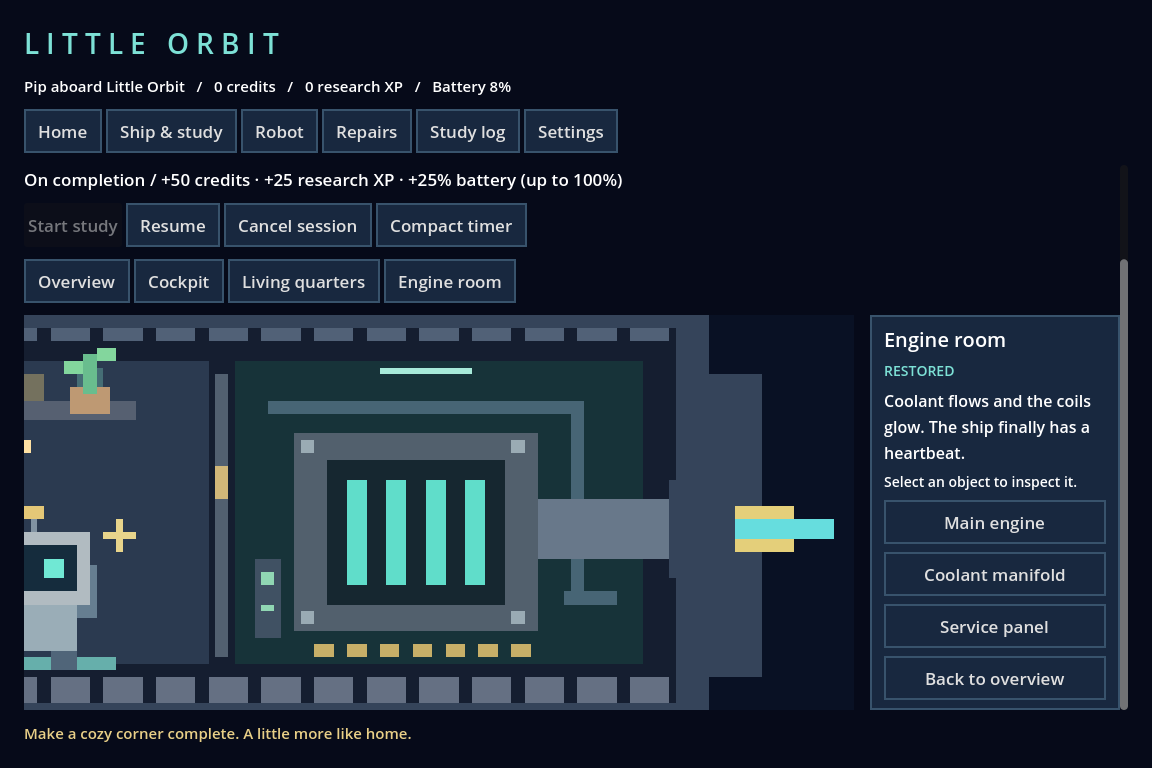
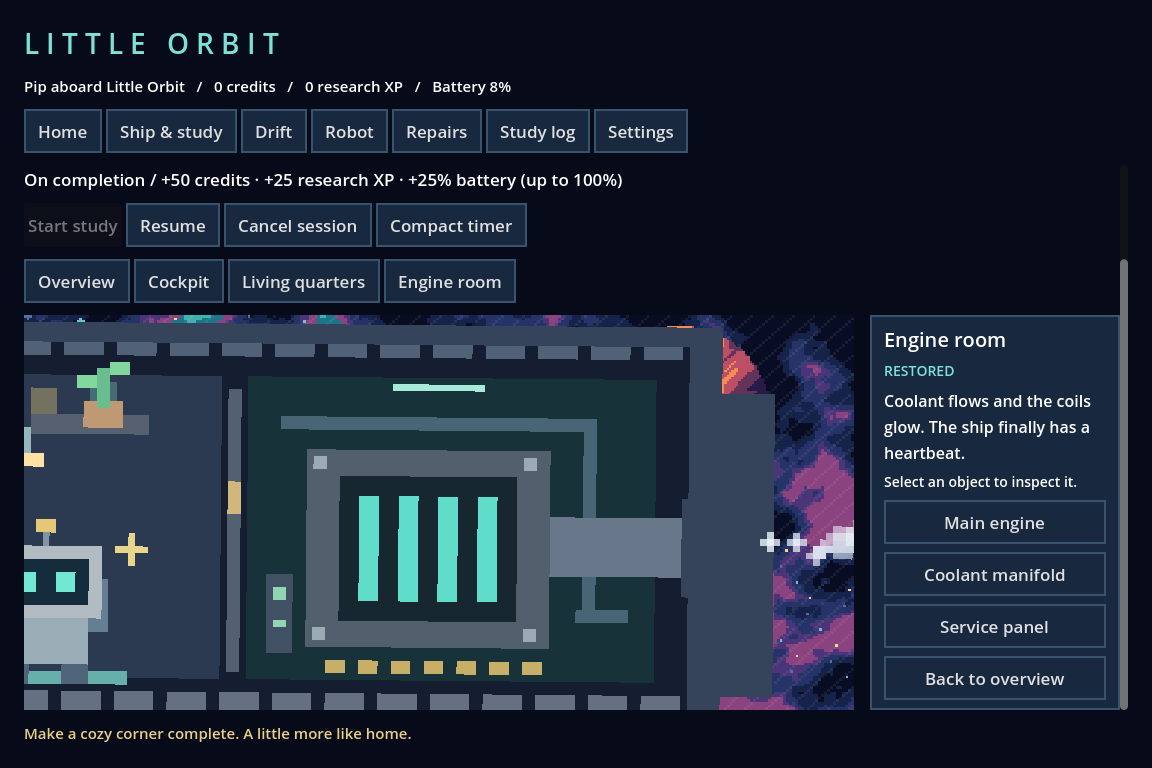
Add colorful drifting-space scenery, white exhaust and exterior view

Changed region(s): [[0.0, 0.4062, 0.75, 0.9375], [0.2188, 0.125, 0.625, 0.2188]]

diff --git a/docs/PROTOTYPE.md b/docs/PROTOTYPE.md
@@ -12,6 +12,7 @@ A native Godot 4 / GDScript single-player study game. No internet, assets, or ex
 6. For a quick manual check use a custom **1 minute** session. Pause, resume, and try the compact window while studying in another application.
 7. Click a room in the ship or use the room buttons. The view smoothly zooms in; select object buttons to inspect the room. Scroll down if necessary to see the full room panel. Choose **Back to overview** to zoom out.
 8. Restore living quarters for 40 credits, the engine for 50, or the cockpit for 60. Each path is available immediately. View your companion's battery, expression and charging dock on **Robot**.
+9. Open **Drift** for a colorful exterior view: the hull gently rocks, soft white exhaust disperses, and shaded orange, turquoise and violet planets pass at different speeds. Your running study session continues and its status stays visible. Return to **Ship & study** to use the timer controls.
 
 The compact timer is a separate native, always-on-top window. Closing it hides it; closing the main window exits and saves. The main window is resizable and its content scrolls on small displays. Names remain editable in Settings. Cancellation requires confirmation and awards no completion rewards.
 
@@ -34,6 +35,8 @@ The compact timer is a separate native, always-on-top window. Closing it hides i
 - `data/rooms.json`: room bounds, names and damaged/restored inspection text.
 - `ui/main.gd`: responsive screen composition, input, compact native window, sound.
 - `assets/ship_view.gd`: original low-resolution drawing, no licensed third-party art.
+- `assets/space_backdrop.gd`: original seeded nebula and shaded planet textures; parallax scenery. User references informed the palette only; no reference image pixels or watermarks are bundled.
+- `tests/test_drift.gd`: motion, exhaust lifetime, moving-hull hit tests, scenery/timer isolation and optional real-frame render comparisons.
 - `tests/test_game.gd`: isolated headless logic and persistence checks.
 - `tests/test_rooms.gd`: room click/zoom/inspection, restoration persistence, companion reactions and timer independence checks; optional graphical screenshot capture.
 - `tests/test_minimized.gd`: real one-minute countdown acceptance test with a minimized native Windows window; takes about 65 seconds.
@@ -65,6 +68,8 @@ Manual acceptance: launch and name companions; complete a one-minute timer while
 ## Scope and next task
 
 This delivery includes the Phase 1 core and Phase 2 visual-restoration pass. Component customization, wishlist, technology tree, weekly bonuses, achievements, planets and solar-system editor remain deferred. Research XP is stored but the three starter repairs have no research gate. Artwork is still procedural placeholder art rather than a finished commissioned sprite set. No Windows executable is bundled yet.
+
+The colorful planet fly-bys in Drift and room backgrounds are decorative scenery. Collectible discoveries, planet interaction and solar-system construction remain deferred. White exhaust is an atmospheric visual effect even before engine restoration; repaired engines emit a denser trail. Ship drift is cosmetic and never changes study rewards or battery use.
 
 Next: Phase 3 wishlist and a small set of visually distinct robot/ship components, followed by a Windows export and full manual acceptance pass. Keep timer and saves independent of presentation.
 

diff --git a/docs/VALIDATION.md b/docs/VALIDATION.md
@@ -10,7 +10,18 @@ Validated using Godot 4.4.1 stable on Windows, with app-data/cache paths redirec
 - `tests/test_ui.gd`: all 10 explicit assertions passed. Checks naming, Start/Pause/Resume button callbacks against authoritative game state, overlapping-start prevention, compact-window configuration/hide/reopen, completion feedback and enabled controls. Screen creation is separately reported as smoke coverage. Failure counts determine process exit code; assertions are not disabled by release-mode settings.
 - Graphical room test: passed on the OpenGL 3.3 compatibility renderer. Captured and inspected `prototype.png`, `engine-restored.png`, `minimum-window.png`, and `robot-status.png`. Overview study controls are above the ship art; room details scroll on smaller displays. Room layout also passes at a 920×680 logical canvas.
 
-## Test audit and deliberate-failure verification
+## Colorful drifting-space update
+
+`tests/test_drift.gd` adds 13 motion assertions: bounded hull movement, hit testing on the moving hull, planet travel and different parallax speeds, exhaust movement/expansion/fade/recycling, exterior-screen status, running timer continuity and no scenery-driven progress changes. The native `--capture` run adds two real-frame checks: the scene clock advances over real time and rendered pixel data changes. These are separate from the existing 70 behavioral assertions (85 total in the graphical acceptance run).
+
+The full 25 game, 35 room and 10 UI checks were rerun successfully. Native drift rendering was inspected in `drift-view.png`. Colorful scenery is original procedural art inspired by the supplied reference palettes; no supplied image pixels were imported into the game. Visual effects are decorative and do not implement planetary discovery.
+
+```powershell
+& $Godot --headless --path . --script res://tests/test_drift.gd
+& $Godot --path . --script res://tests/test_drift.gd -- --capture
+```
+
+## Original test audit
 
 There are 70 behavioral assertions across the game (25), room (35) and UI (10) suites. Game tests execute the actual autoload, not a replacement implementation. Fast timer tests inject monotonic timestamps into the same `advance()` method used by the running game; this is controlled-clock unit testing, not a real-time/minimized-window test. Save tests read/write real isolated files. Room tests run actual tweens and inspection callbacks. UI button tests emit Godot button signals to exercise connected actions; they do not simulate physical mouse/keyboard events or validate OS-level input routing.
 
